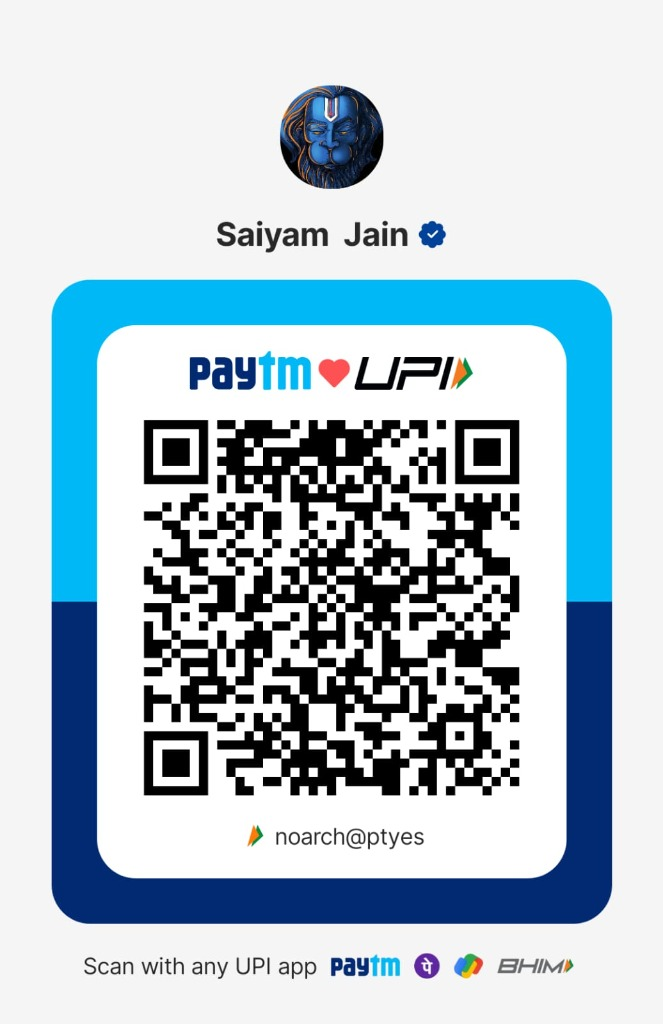
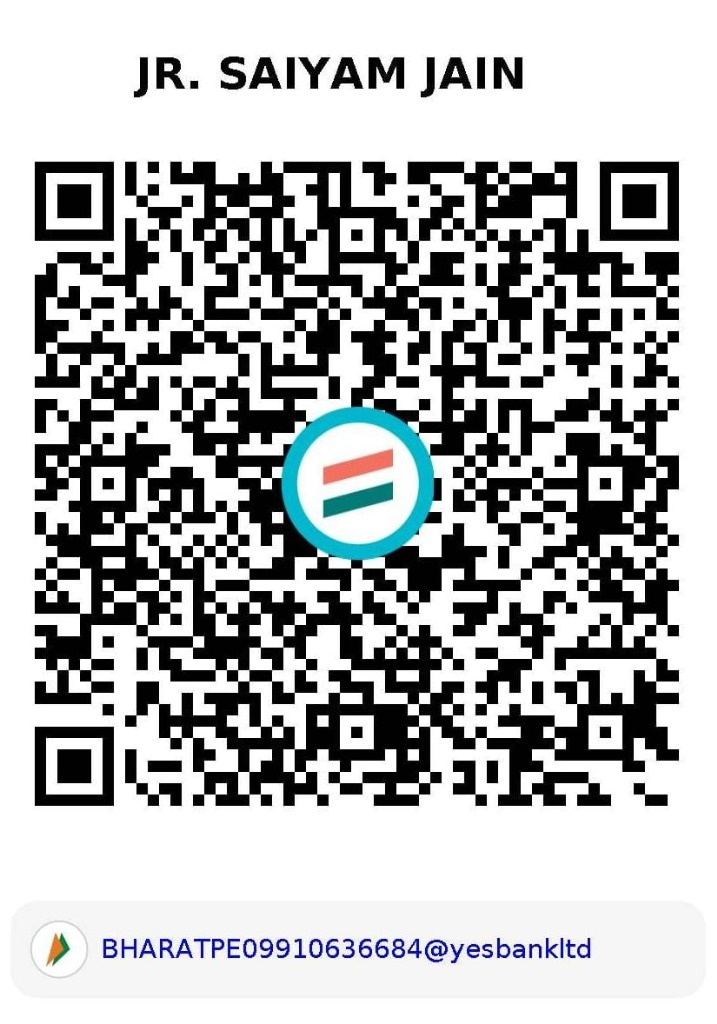
Update UPI payment details: Replace old QR code with clean BharatPe QR, update UPI ID to BHARATPE09910636684@yesbankltd, and add Pay Now via UPI button

diff --git a/src/pages/Contact.jsx b/src/pages/Contact.jsx
@@ -1,7 +1,7 @@
 import React, { useState } from 'react';
 import { 
   Mail, Phone, MapPin, Send, MessageSquare, CheckCircle, Sparkles, ExternalLink,
-  CreditCard, QrCode, Copy, Check, Building, ShieldCheck, ArrowRight
+  CreditCard, QrCode, Copy, Check, Building, ShieldCheck, ArrowRight, Zap
 } from 'lucide-react';
 import { InstagramIcon, YoutubeIcon } from '../components/Icons';
 
@@ -24,8 +24,10 @@ export default function Contact() {
     mobileNumber: "+91 9339256592",
     accountHolder: "SAIYAM JAIN",
     ifscCode: "CNRB0001426",
-    upiId: "noarch@ptyes"
+    upiId: "BHARATPE09910636684@yesbankltd"
   };
+
+  const payNowLink = `upi://pay?pa=${bankInfo.upiId}&pn=Saiyam%20Jain&cu=INR`;
 
   const handleCopyBankDetails = () => {
     const text = `Canara Bank A/C Details:
@@ -66,7 +68,7 @@ UPI ID: ${bankInfo.upiId}`;
             Contact & <span className="text-gradient">Payment Details</span>
           </h1>
           <p style={{ color: 'var(--text-muted)', maxWidth: '640px', margin: '14px auto 0 auto', fontSize: '1.05rem', lineHeight: '1.6' }}>
-            Have a project in mind or ready to pay? Send a direct message or scan the Paytm UPI QR code / Bank details below.
+            Have a project in mind or ready to pay? Send a direct message or scan the UPI QR code / Bank details below.
           </p>
         </div>
 
@@ -86,14 +88,14 @@ UPI ID: ${bankInfo.upiId}`;
                 Official Bank & Payment QR Details
               </h2>
               <p style={{ color: 'var(--text-muted)', fontSize: '0.9rem' }}>
-                Direct bank transfer or UPI payment gateway for project milestone payments.
+                Scan the QR code or click the Pay Now button to launch your UPI payment app directly.
               </p>
             </div>
           </div>
 
           <div style={{ display: 'grid', gridTemplateColumns: 'repeat(auto-fit, minmax(300px, 1fr))', gap: '32px', alignItems: 'center' }}>
             
-            {/* Paytm UPI QR Code Card */}
+            {/* BharatPe UPI QR Code Card (Cropped Header & Clean Display) */}
             <div style={{
               background: '#FFF',
               borderRadius: '24px',
@@ -103,45 +105,76 @@ UPI ID: ${bankInfo.upiId}`;
               border: '2px solid rgba(56, 189, 248, 0.4)'
             }}>
               <div style={{ color: '#0F172A', fontWeight: 800, fontSize: '1.1rem', marginBottom: '14px', display: 'flex', alignItems: 'center', justifyContent: 'center', gap: '6px' }}>
-                <QrCode size={20} style={{ color: '#00BAF2' }} /> Scan Paytm UPI QR Code
+                <QrCode size={20} style={{ color: '#00BAF2' }} /> Scan UPI QR Code
               </div>
 
+              {/* Clean Cropped QR View (Hiding header text) */}
               <div style={{
-                borderRadius: '16px',
+                width: '260px',
+                height: '270px',
                 overflow: 'hidden',
-                maxWidth: '280px',
+                position: 'relative',
+                borderRadius: '16px',
                 margin: '0 auto 16px auto',
-                border: '1px solid #E2E8F0'
+                border: '1px solid #E2E8F0',
+                background: '#FFF'
               }}>
                 <img 
                   src="/payment-qr.jpg" 
-                  alt="Saiyam Jain Paytm UPI Payment QR Code" 
-                  style={{ width: '100%', height: 'auto', display: 'block' }}
+                  alt="BharatPe UPI Payment QR Code" 
+                  style={{ 
+                    width: '100%', 
+                    height: 'auto', 
+                    marginTop: '-36px',
+                    display: 'block' 
+                  }}
                 />
               </div>
 
-              <div style={{ display: 'flex', alignItems: 'center', justifyContent: 'center', gap: '8px' }}>
-                <span style={{ color: '#0F172A', fontSize: '0.88rem', fontWeight: 700 }}>UPI ID:</span>
-                <span style={{ color: '#00BAF2', fontWeight: 800, fontSize: '0.95rem' }}>{bankInfo.upiId}</span>
-                <button
-                  onClick={handleCopyUpi}
+              {/* Pay Now Button & UPI ID Bar */}
+              <div style={{ display: 'flex', flexDirection: 'column', gap: '10px', alignItems: 'center' }}>
+                
+                <a
+                  href={payNowLink}
+                  className="btn-accent"
                   style={{
-                    background: copiedUpi ? '#10B981' : '#0F172A',
-                    color: '#FFF',
-                    border: 'none',
-                    borderRadius: '8px',
-                    padding: '4px 10px',
-                    fontSize: '0.75rem',
-                    fontWeight: 700,
-                    cursor: 'pointer',
-                    display: 'flex',
-                    alignItems: 'center',
-                    gap: '4px'
+                    width: '100%',
+                    justifyContent: 'center',
+                    padding: '12px 20px',
+                    borderRadius: '12px',
+                    fontWeight: 800,
+                    fontSize: '0.95rem',
+                    textDecoration: 'none',
+                    background: 'linear-gradient(135deg, #00BAF2, #0052FF)'
                   }}
                 >
-                  {copiedUpi ? <Check size={12} /> : <Copy size={12} />}
-                  {copiedUpi ? 'Copied' : 'Copy UPI'}
-                </button>
+                  ⚡ Pay Now via UPI <ExternalLink size={16} />
+                </a>
+
+                <div style={{ display: 'flex', alignItems: 'center', justifyContent: 'center', gap: '8px', flexWrap: 'wrap' }}>
+                  <span style={{ color: '#0F172A', fontSize: '0.82rem', fontWeight: 700 }}>UPI ID:</span>
+                  <span style={{ color: '#0052FF', fontWeight: 800, fontSize: '0.85rem', wordBreak: 'break-all' }}>{bankInfo.upiId}</span>
+                  <button
+                    onClick={handleCopyUpi}
+                    style={{
+                      background: copiedUpi ? '#10B981' : '#0F172A',
+                      color: '#FFF',
+                      border: 'none',
+                      borderRadius: '8px',
+                      padding: '4px 10px',
+                      fontSize: '0.75rem',
+                      fontWeight: 700,
+                      cursor: 'pointer',
+                      display: 'flex',
+                      alignItems: 'center',
+                      gap: '4px'
+                    }}
+                  >
+                    {copiedUpi ? <Check size={12} /> : <Copy size={12} />}
+                    {copiedUpi ? 'Copied' : 'Copy UPI'}
+                  </button>
+                </div>
+
               </div>
             </div>
 
@@ -192,8 +225,8 @@ UPI ID: ${bankInfo.upiId}`;
                   </div>
 
                   <div style={{ display: 'flex', justifyContent: 'space-between', paddingTop: '4px' }}>
-                    <span style={{ color: 'var(--text-muted)', fontSize: '0.88rem' }}>Paytm UPI ID</span>
-                    <span style={{ color: '#10B981', fontWeight: 800, fontSize: '0.92rem' }}>{bankInfo.upiId}</span>
+                    <span style={{ color: 'var(--text-muted)', fontSize: '0.88rem' }}>BharatPe UPI ID</span>
+                    <span style={{ color: '#10B981', fontWeight: 800, fontSize: '0.82rem', wordBreak: 'break-all' }}>{bankInfo.upiId}</span>
                   </div>
                 </div>
               </div>

diff --git a/src/components/SAMWidget.jsx b/src/components/SAMWidget.jsx
@@ -92,7 +92,7 @@ export default function SAMWidget({ setActiveTab }) {
     // 7. Payment & Bank Details Inquiry
     if (lower.includes('payment') || lower.includes('bank') || lower.includes('account') || lower.includes('paytm') || lower.includes('upi') || lower.includes('qr') || lower.includes('ifsc') || lower.includes('canara')) {
       return {
-        text: "🏦 **Official Payment & Bank Account Details**:\n\n• **Paytm UPI ID**: `noarch@ptyes`\n• **Bank Name**: Canara Bank\n• **Account Holder**: SAIYAM JAIN\n• **Account Number**: 110265163648\n• **IFSC Code**: CNRB0001426\n• **Mobile Number**: +91 9339256592\n\nYou can also scan the official Paytm UPI QR Code on the Contact page!"
+        text: "🏦 **Official Payment & Bank Account Details**:\n\n• **BharatPe UPI ID**: `BHARATPE09910636684@yesbankltd`\n• **Bank Name**: Canara Bank\n• **Account Holder**: SAIYAM JAIN\n• **Account Number**: 110265163648\n• **IFSC Code**: CNRB0001426\n• **Mobile Number**: +91 9339256592\n\nYou can also click 'Pay Now via UPI' or scan the QR Code on the Contact page!"
       };
     }
 

diff --git a/src/pages/SAMHub.jsx b/src/pages/SAMHub.jsx
@@ -238,7 +238,7 @@ export default function SAMHub({ setActiveTab }) {
     // 7. Payment & Bank Details Inquiry
     if (lower.includes('payment') || lower.includes('bank') || lower.includes('account') || lower.includes('paytm') || lower.includes('upi') || lower.includes('qr') || lower.includes('ifsc') || lower.includes('canara')) {
       return {
-        text: "🏦 **Official Payment & Bank Account Details**:\n\n• **Paytm UPI ID**: `noarch@ptyes`\n• **Bank Name**: Canara Bank\n• **Account Holder**: SAIYAM JAIN\n• **Account Number**: 110265163648\n• **IFSC Code**: CNRB0001426\n• **Mobile Number**: +91 9339256592\n\nYou can also scan the official Paytm UPI QR Code on the Contact page!"
+        text: "🏦 **Official Payment & Bank Account Details**:\n\n• **BharatPe UPI ID**: `BHARATPE09910636684@yesbankltd`\n• **Bank Name**: Canara Bank\n• **Account Holder**: SAIYAM JAIN\n• **Account Number**: 110265163648\n• **IFSC Code**: CNRB0001426\n• **Mobile Number**: +91 9339256592\n\nYou can also click 'Pay Now via UPI' or scan the QR Code on the Contact page!"
       };
     }
 
